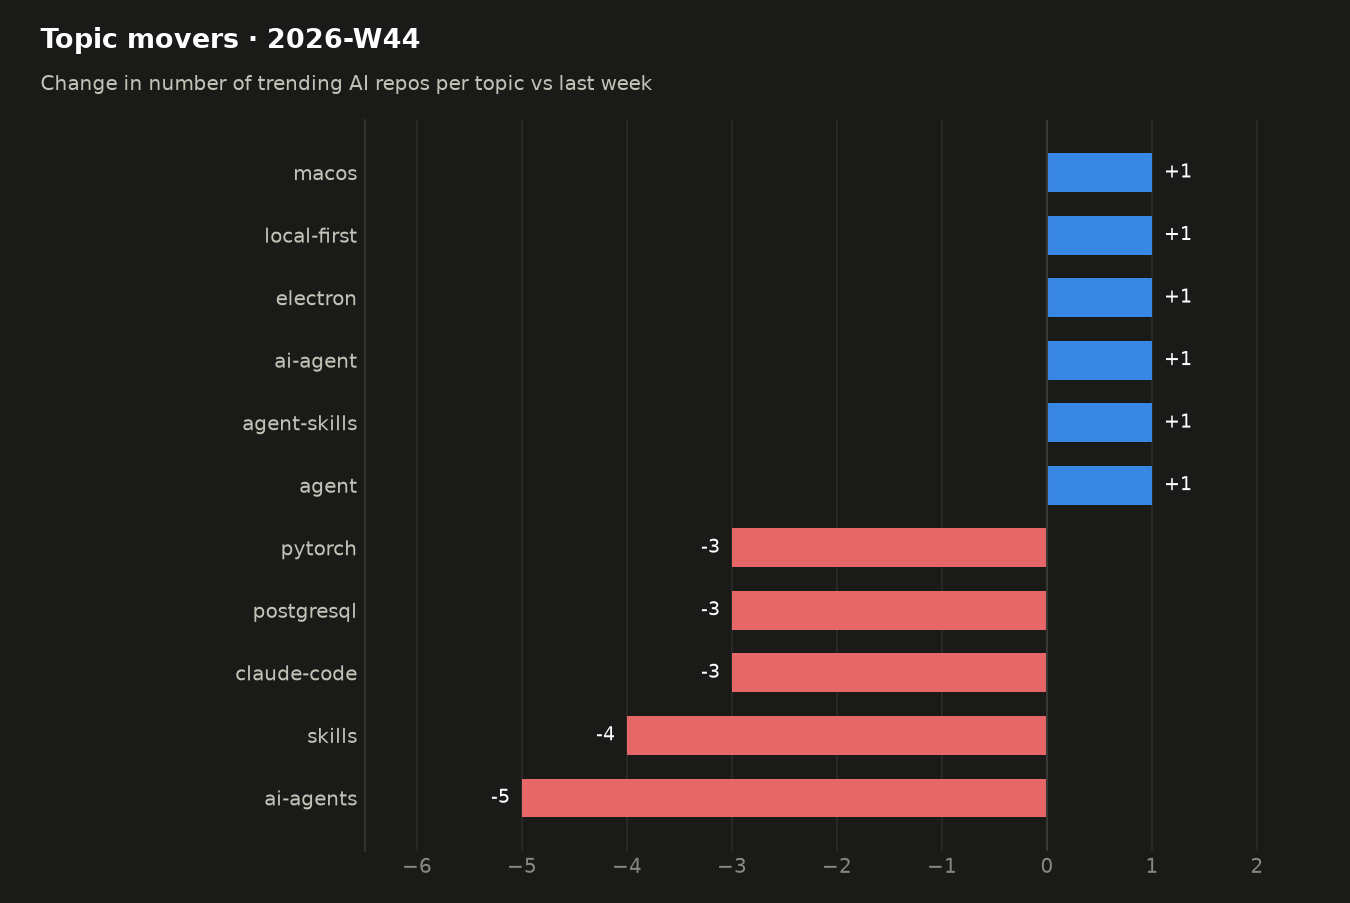
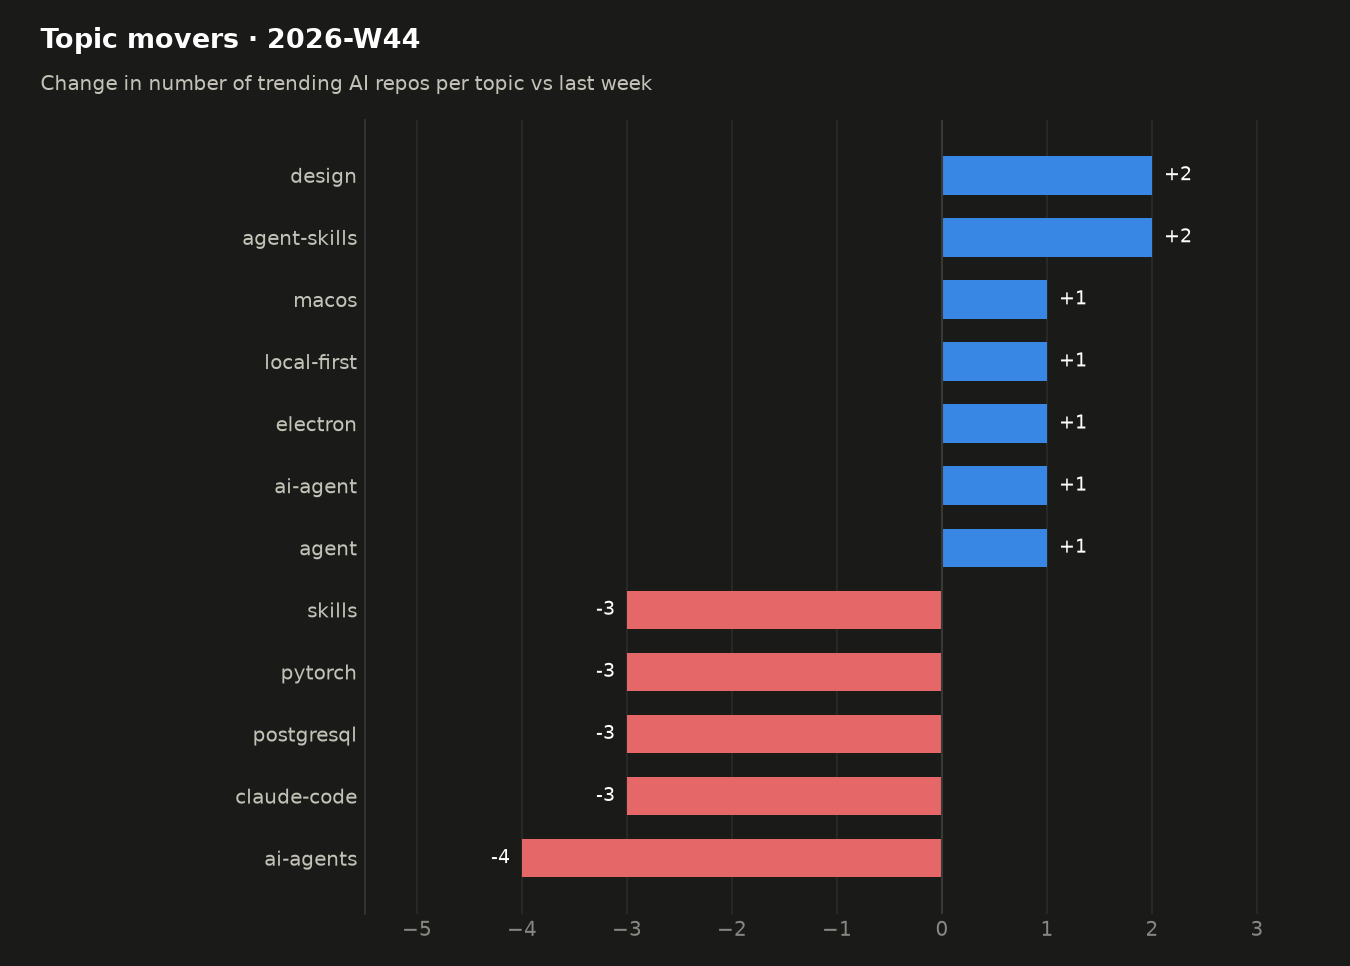
trending: snapshot 2026-10-28

diff --git a/README.md b/README.md
@@ -7,34 +7,32 @@ Every morning a GitHub Actions workflow reads the GitHub trending page, looks up
 ## Live view
 
 <!-- TRACKER_START -->
-### 🔥 AI repos trending today · 2026-10-27
+### 🔥 AI repos trending today · 2026-10-28
 
-13 of 14 trending repositories are AI-related.
+10 of 11 trending repositories are AI-related.
 
 | # | Repo | Language | ⭐ today | ⭐ total | Topics |
 |--:|---|---|--:|--:|---|
-| 1 | [Nutlope/hallmark](https://github.com/Nutlope/hallmark)<br><sub>Star Nutlope / hallmark Anti-AI-slop design skill for Claude Code, Cursor, and Codex.</sub> | CSS | 2,244 | 37,268 | – |
-| 2 | [TauricResearch/TradingAgents](https://github.com/TauricResearch/TradingAgents)<br><sub>Star TauricResearch / TradingAgents TradingAgents: Multi-Agents LLM Financial Trading Fram…</sub> | Python | 1,395 | 116,633 | `agent` `finance` `llm` `multiagent` |
-| 3 | [JetBrains/thinkrail](https://github.com/JetBrains/thinkrail)<br><sub>Star JetBrains / thinkrail Vibe code with pi in a lightweight, real IDE that customises it…</sub> | TypeScript | 1,173 | 3,290 | `agent` `agent-skills` `agentic-ai` `agentic-workflow` |
-| 4 | [makecindy/cindy](https://github.com/makecindy/cindy)<br><sub>Star makecindy / cindy Consider it done. The open-source AI agent that works out of the bo…</sub> | TypeScript | 1,296 | 6,922 | `agent` `ai-agent` `ai-assistant` `android` |
-| 5 | [affaan-m/ECC](https://github.com/affaan-m/ECC)<br><sub>Sponsor Star affaan-m / ECC The agent harness performance optimization system. Skills, ins…</sub> | JavaScript | 896 | 290,121 | `ai-agents` `anthropic` `claude` `claude-code` |
-| 6 | [pbakaus/impeccable](https://github.com/pbakaus/impeccable)<br><sub>Star pbakaus / impeccable The design language that makes your AI harness better at design.</sub> | Rust | 1,506 | 89,578 | – |
-| 7 | [NVIDIA/SkillSpector](https://github.com/NVIDIA/SkillSpector)<br><sub>Star NVIDIA / SkillSpector Security scanner for AI agent skills. Detect vulnerabilities, m…</sub> | Python | 214 | 22,490 | `agent-security` `agent-skills` `agentic-ai` `ai-security` |
-| 9 | [nightly-labs/openbot](https://github.com/nightly-labs/openbot)<br><sub>Star nightly-labs / openbot A local-first desktop workspace for persistent AI teammates. R…</sub> | TypeScript | 176 | 1,723 | `ai-agents` `bun` `codex` `electron` |
-| 10 | [Panniantong/Agent-Reach](https://github.com/Panniantong/Agent-Reach)<br><sub>Star Panniantong / Agent-Reach Give your AI agent eyes to see the entire internet. Read & …</sub> | Python | 746 | 104,190 | `agent-infrastructure` `ai-agent` `ai-search` `automation` |
-| 11 | [debpalash/VoiceStudio](https://github.com/debpalash/VoiceStudio)<br><sub>Sponsor Star debpalash / VoiceStudio VoiceStudio is the open-source, fully-local ElevenLab…</sub> | Python | 2,297 | 90,012 | `ai` `audiobook` `cuda` `dubbing` |
-| 12 | [gitroomhq/postiz-app](https://github.com/gitroomhq/postiz-app)<br><sub>Star gitroomhq / postiz-app 📨 The ultimate agentic social media scheduling tool 🤖</sub> | TypeScript | 188 | 38,709 | `nextjs` `open-source` `open-source-social-media-scheduling-tool` `oss` |
-| 13 | [alchaincyf/huashu-design](https://github.com/alchaincyf/huashu-design)<br><sub>Star alchaincyf / huashu-design Huashu Design 3.0 · 在 agent 里打一句话，拿回能交付的设计：网页 / App 原型 / 可…</sub> | HTML | 251 | 27,347 | `agent-skills` `ai-design` `claude-code` `claude-skills` |
-| 14 | [multica-ai/andrej-karpathy-skills](https://github.com/multica-ai/andrej-karpathy-skills)<br><sub>Star multica-ai / andrej-karpathy-skills A single CLAUDE.md file to improve Claude Code be…</sub> | – | 638 | 224,968 | – |
+| 1 | [elayadesign/ai-design-skills](https://github.com/elayadesign/ai-design-skills)<br><sub></sub> | – | 1,395 | 10,180 | – |
+| 2 | [Nutlope/hallmark](https://github.com/Nutlope/hallmark)<br><sub>Star Nutlope / hallmark Anti-AI-slop design skill for Claude Code, Cursor, and Codex.</sub> | CSS | 2,830 | 39,579 | – |
+| 3 | [nightly-labs/openbot](https://github.com/nightly-labs/openbot)<br><sub>Star nightly-labs / openbot A local-first desktop workspace for persistent AI teammates. R…</sub> | TypeScript | 777 | 2,743 | `ai-agents` `bun` `codex` `electron` |
+| 4 | [obra/superpowers](https://github.com/obra/superpowers)<br><sub>Sponsor Star obra / superpowers An agentic skills framework & software development methodo…</sub> | Shell | 617 | 306,763 | `ai` `brainstorming` `coding` `obra` |
+| 5 | [pbakaus/impeccable](https://github.com/pbakaus/impeccable)<br><sub>Star pbakaus / impeccable The design vocabulary for your coding agent. Steer with polish a…</sub> | Rust | 1,449 | 91,078 | `agent-skills` `ai` `anti-slop` `design` |
+| 6 | [makecindy/cindy](https://github.com/makecindy/cindy)<br><sub>Star makecindy / cindy Consider it done. The open-source AI agent that works out of the bo…</sub> | TypeScript | 1,465 | 7,725 | `agent` `ai-agent` `ai-assistant` `android` |
+| 7 | [gitroomhq/postiz-app](https://github.com/gitroomhq/postiz-app)<br><sub>Star gitroomhq / postiz-app 📨 The ultimate agentic social media scheduling tool 🤖</sub> | TypeScript | 951 | 39,702 | `nextjs` `open-source` `open-source-social-media-scheduling-tool` `oss` |
+| 8 | [affaan-m/ECC](https://github.com/affaan-m/ECC)<br><sub>Sponsor Star affaan-m / ECC The agent harness performance optimization system. Skills, ins…</sub> | JavaScript | 1,165 | 291,181 | `ai-agents` `anthropic` `claude` `claude-code` |
+| 9 | [HKUDS/DeepTutor](https://github.com/HKUDS/DeepTutor)<br><sub>Star HKUDS / DeepTutor DeepTutor: Lifelong Personalized Tutoring. https://deeptutor.info/ …</sub> | Python | 1,598 | 46,765 | `ai-agents` `ai-tutor` `clawbot` `cli-tool` |
+| 10 | [JetBrains/thinkrail](https://github.com/JetBrains/thinkrail)<br><sub>Star JetBrains / thinkrail Vibe code with pi in a lightweight, real IDE that customises it…</sub> | TypeScript | 1,204 | 4,396 | `agent` `agent-skills` `agentic-ai` `agentic-workflow` |
 
 ### 📊 This week so far · 2026-W44
 
 #### Summary
 
-- **15** distinct AI repos trended over 2 day(s) (last week: 31)
-- AI share of all trending slots: **84%** (+5 pts vs last week)
+- **18** distinct AI repos trended over 3 day(s) (last week: 31)
+- AI share of all trending slots: **86%** (+7 pts vs last week)
 - Dominant language: **Python** (33% of AI repos)
-- Rising topics: `agent` (+1), `agent-skills` (+1), `ai-agent` (+1), `electron` (+1), `local-first` (+1)
+- Rising topics: `agent-skills` (+2), `design` (+2), `agent` (+1), `ai-agent` (+1), `electron` (+1)
+- New this week: `design`
 
 #### Languages
 
@@ -42,13 +40,14 @@ Every morning a GitHub Actions workflow reads the GitHub trending page, looks up
 
 | Language | Repos | Share | Last week |
 |---|--:|--:|--:|
-| Python | 5 | 33% | 14 |
-| TypeScript | 4 | 27% | 8 |
-| JavaScript | 2 | 13% | 2 |
-| CSS | 1 | 7% | 1 |
-| Rust | 1 | 7% | 3 |
-| HTML | 1 | 7% | 0 |
-| Unspecified | 1 | 7% | 1 |
+| Python | 6 | 33% | 14 |
+| TypeScript | 4 | 22% | 8 |
+| JavaScript | 2 | 11% | 2 |
+| Unspecified | 2 | 11% | 1 |
+| CSS | 1 | 6% | 1 |
+| Rust | 1 | 6% | 3 |
+| HTML | 1 | 6% | 0 |
+| Shell | 1 | 6% | 1 |
 
 #### Topics
 
@@ -57,36 +56,36 @@ Every morning a GitHub Actions workflow reads the GitHub trending page, looks up
 | Topic | Repos this week |
 |---|--:|
 | `claude-code` | 6 |
-| `agent` | 3 |
+| `agent-skills` | 4 |
 | `codex` | 3 |
-| `agent-skills` | 3 |
+| `agent` | 3 |
+| `ai-agents` | 3 |
 | `mcp` | 3 |
-| `electron` | 2 |
 | `ai-agent` | 2 |
 | `macos` | 2 |
+| `electron` | 2 |
 | `local-first` | 2 |
+| `design` | 2 |
 | `agentic-ai` | 2 |
-| `ai-agents` | 2 |
-| `cursor` | 2 |
 
 #### Most persistent AI repos
 
 | Repo | Language | Days trending | Stars gained | Total stars |
 |---|---|--:|--:|--:|
+| [Nutlope/hallmark](https://github.com/Nutlope/hallmark) | CSS | 3 | 6,391 | 39,579 |
+| [pbakaus/impeccable](https://github.com/pbakaus/impeccable) | Rust | 3 | 4,047 | 91,078 |
+| [makecindy/cindy](https://github.com/makecindy/cindy) | TypeScript | 3 | 3,436 | 7,725 |
+| [JetBrains/thinkrail](https://github.com/JetBrains/thinkrail) | TypeScript | 3 | 2,428 | 4,396 |
 | [debpalash/VoiceStudio](https://github.com/debpalash/VoiceStudio) | Python | 2 | 3,889 | 90,012 |
-| [Nutlope/hallmark](https://github.com/Nutlope/hallmark) | CSS | 2 | 3,561 | 37,268 |
-| [pbakaus/impeccable](https://github.com/pbakaus/impeccable) | Rust | 2 | 2,598 | 89,578 |
-| [makecindy/cindy](https://github.com/makecindy/cindy) | TypeScript | 2 | 1,971 | 6,922 |
+| [affaan-m/ECC](https://github.com/affaan-m/ECC) | JavaScript | 2 | 2,061 | 291,181 |
 | [TauricResearch/TradingAgents](https://github.com/TauricResearch/TradingAgents) | Python | 2 | 1,776 | 116,633 |
-| [JetBrains/thinkrail](https://github.com/JetBrains/thinkrail) | TypeScript | 2 | 1,224 | 3,290 |
+| [gitroomhq/postiz-app](https://github.com/gitroomhq/postiz-app) | TypeScript | 2 | 1,139 | 39,702 |
+| [nightly-labs/openbot](https://github.com/nightly-labs/openbot) | TypeScript | 2 | 953 | 2,743 |
 | [cloudflare/security-audit-skill](https://github.com/cloudflare/security-audit-skill) | JavaScript | 1 | 2,878 | 47,463 |
-| [affaan-m/ECC](https://github.com/affaan-m/ECC) | JavaScript | 1 | 896 | 290,121 |
-| [Panniantong/Agent-Reach](https://github.com/Panniantong/Agent-Reach) | Python | 1 | 746 | 104,190 |
-| [multica-ai/andrej-karpathy-skills](https://github.com/multica-ai/andrej-karpathy-skills) | – | 1 | 638 | 224,968 |
 
 ➡ Last full weekly analysis: [2026-W43](reports/weekly/2026-W43.md) · [all reports](reports/weekly)
 
-_Tracking since 2026-10-01 · 27 day(s) of data · [raw data](data/trending.csv)_
+_Tracking since 2026-10-01 · 28 day(s) of data · [raw data](data/trending.csv)_
 <!-- TRACKER_END -->
 
 ## How it works
